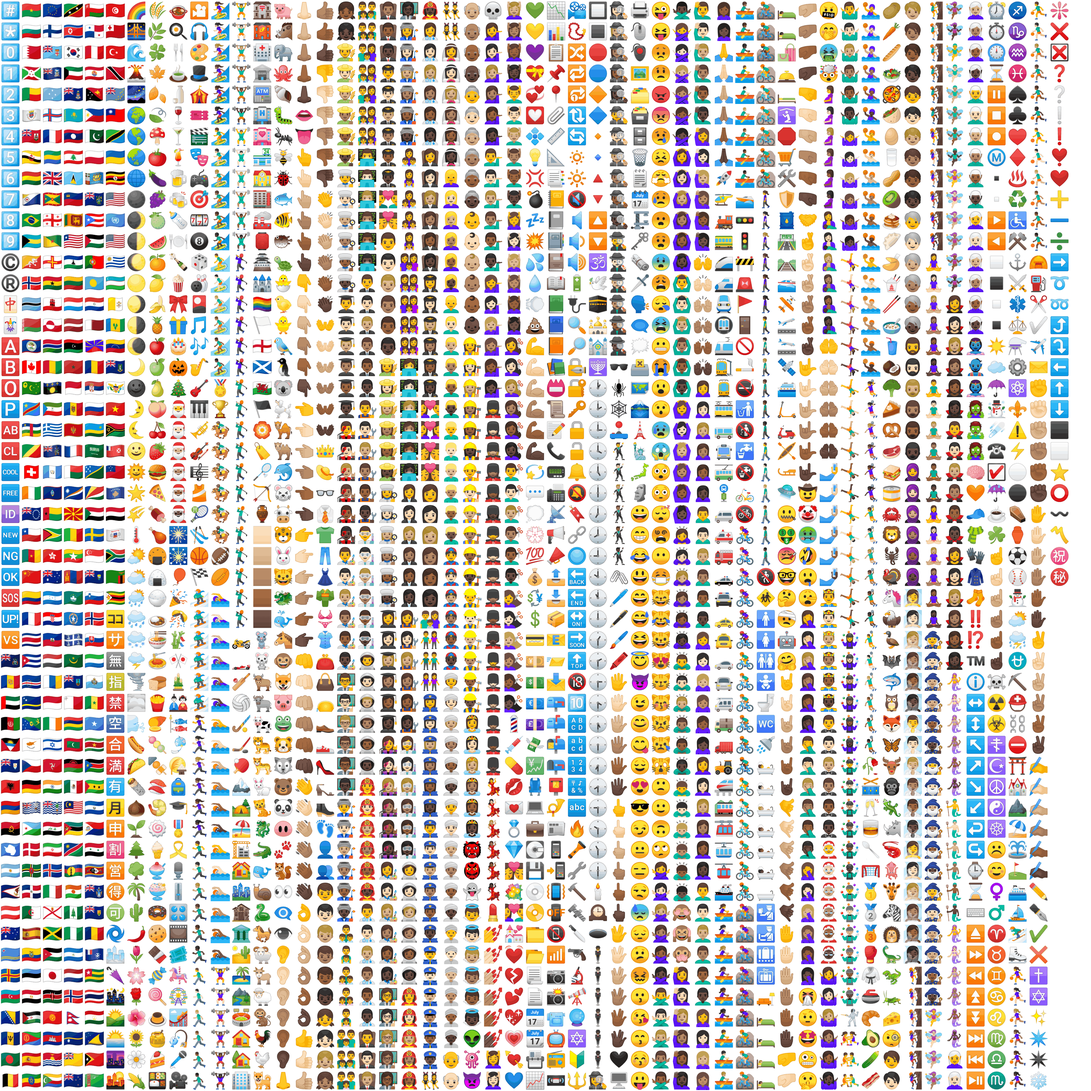
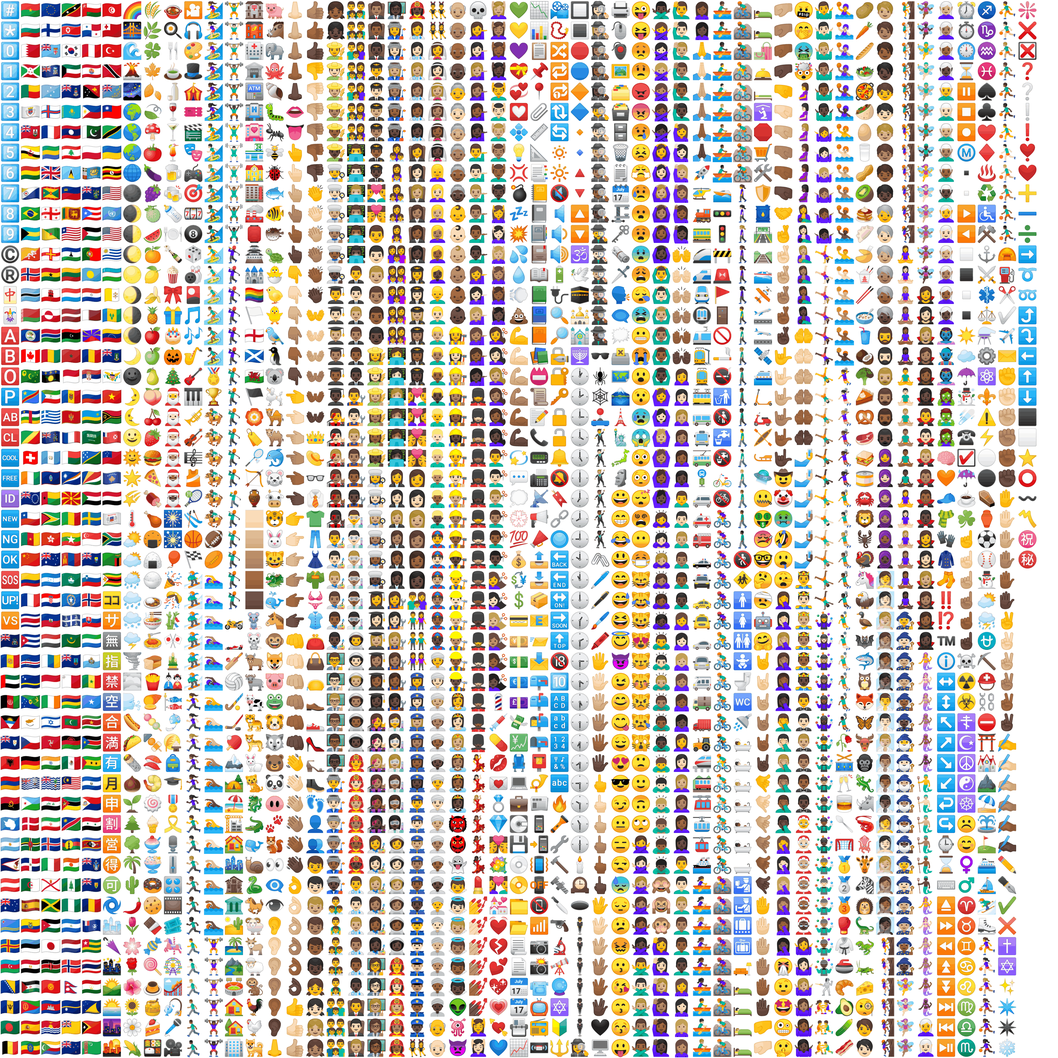
Sheets are now seamless like god intended

Changed region(s): [[0.0, 0.0, 0.9688, 1.0], [0.9375, 0.2188, 0.9688, 0.2812]]

diff --git a/img/readme.md b/img/readme.md
@@ -1,0 +1,67 @@
+# Building spritesheets
+Slack sources their emoji spritesheet from [emoji-data](https://github.com/iamcal/emoji-data), so we'll do the same. At Slack, however, they removed the 1px padding around each emoji, so we have to generate custom quantized/indexed spritesheets that are also seamless.
+
+1. Install dependencies
+    apt-get install php
+
+    wget https://github.com/amadvance/advancecomp/releases/download/v1.20/advancecomp-1.20.tar.gz
+    tar xzf advancecomp-1.20.tar.gz
+    cd advancecomp-1.20/
+    ./configure
+    make
+    make install
+    cd ..
+    rm -rf advancecomp-1.20*
+
+    wget -Opngcrush-1.8.13.tar.gz "https://downloads.sourceforge.net/project/pmt/pngcrush/1.8.13/pngcrush-1.8.13.tar.gz?r=https%3A%2F%2Fsourceforge.net%2Fprojects%2Fpmt%2Ffiles%2Fpngcrush%2F1.8.13%2Fpngcrush-1.8.13.tar.gz%2Fdownload&ts=1539950400"
+    tar xzf pngcrush-1.8.13.tar.gz
+    cd pngcrush-1.8.13/
+    make
+    cp pngcrush /usr/local/bin/
+    rm -rf pngcrush-1.8.13*
+
+    wget http://static.jonof.id.au/dl/kenutils/pngout-20150319-linux-static.tar.gz
+    tar xzf pngout-20150319-linux-static.tar.gz
+    cp pngout-20150319-linux-static/x86_64/pngout-static /usr/local/bin
+    rm -rf pngout-20150319-linux-static*
+
+    wget -Ooptipng-0.7.6.tar.gz "http://downloads.sourceforge.net/project/optipng/OptiPNG/optipng-0.7.6/optipng-0.7.6.tar.gz?r=https%3A%2F%2Fsourceforge.net%2Fprojects%2Foptipng%2Ffiles%2FOptiPNG%2Foptipng-0.7.6%2F&ts=1465493988&use_mirror=heanet"
+    tar xzf optipng-0.7.6.tar.gz
+    cd optipng-0.7.6
+    ./configure
+    make
+    make install
+    cd ..
+    rm -rf optipng-0.7.6*
+
+    apt-get install libpng-dev
+    git clone git://github.com/pornel/pngquant.git
+    cd pngquant/
+    ./configure
+    make
+    make install
+    cd ..
+    rm -rf pngquant
+
+    git clone https://github.com/google/zopfli.git
+    cd zopfli
+    make zopflipng
+    cp zopflipng /usr/local/bin
+    cd ..
+    rm -rf zopfli
+
+2. Clone [emoji-data](https://github.com/iamcal/emoji-data/) 
+    git clone https://github.com/iamcal/emoji-data.git emoji-data
+    cd emoji-data/build
+
+3. Set build_image.php to generate seamless spritesheets
+    sed -i 's/$space = 1/$space = 0/g' build_image.php
+
+4. Build normal spritesheets and run quant_sheets on them
+    php build_image.php
+    chmod +x ./quant_sheets.sh
+    ./quant_sheets.sh
+
+5. Move the quantized sheets up to /img
+    cd ../sheets-indexed-256
+    cp -t ../ sheet_apple_64_indexed_256.png sheet_facebook_64_indexed_256.png sheet_google_64_indexed_256.png sheet_messenger_64_indexed_256.png sheet_twitter_64_indexed_256.png
